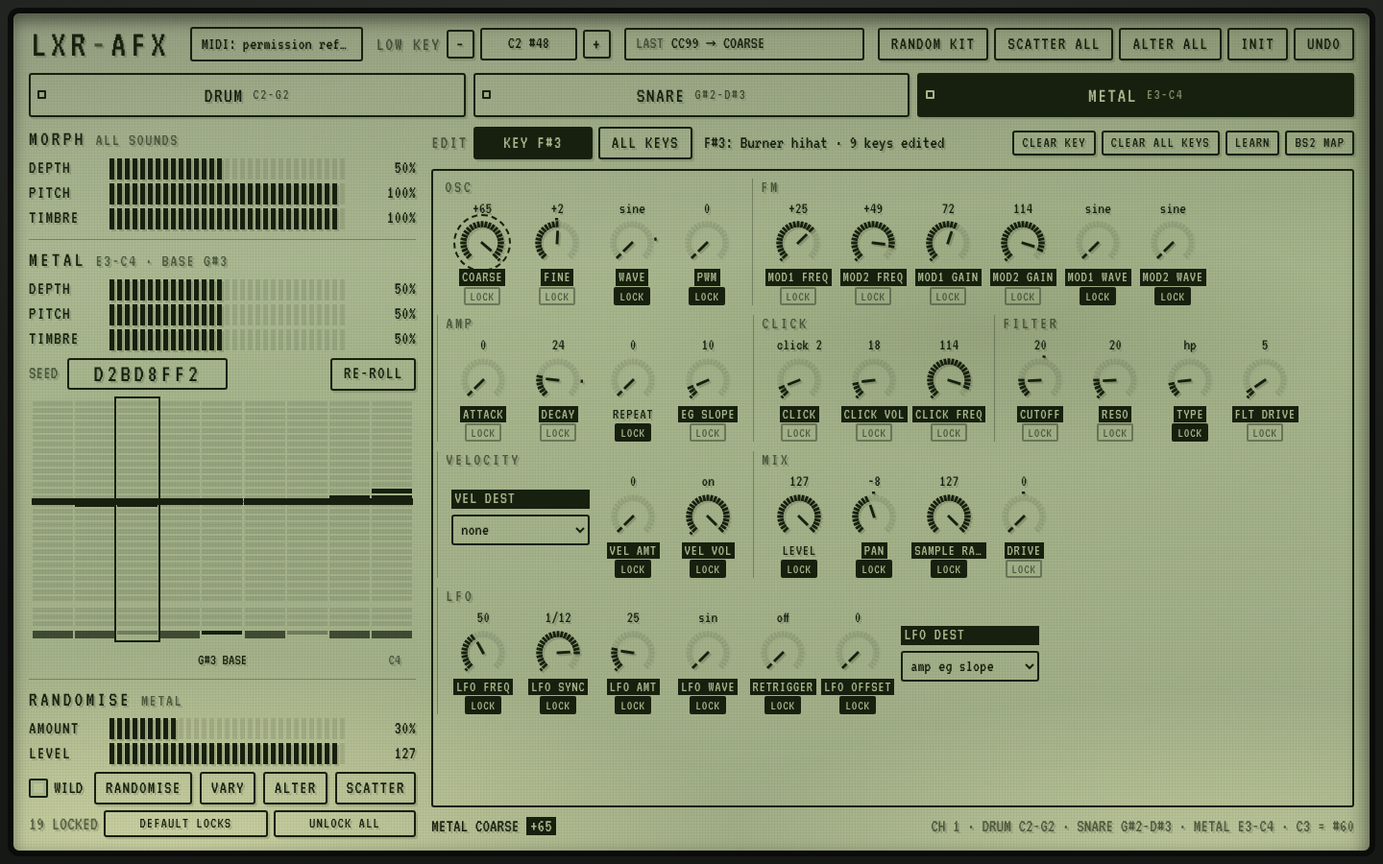
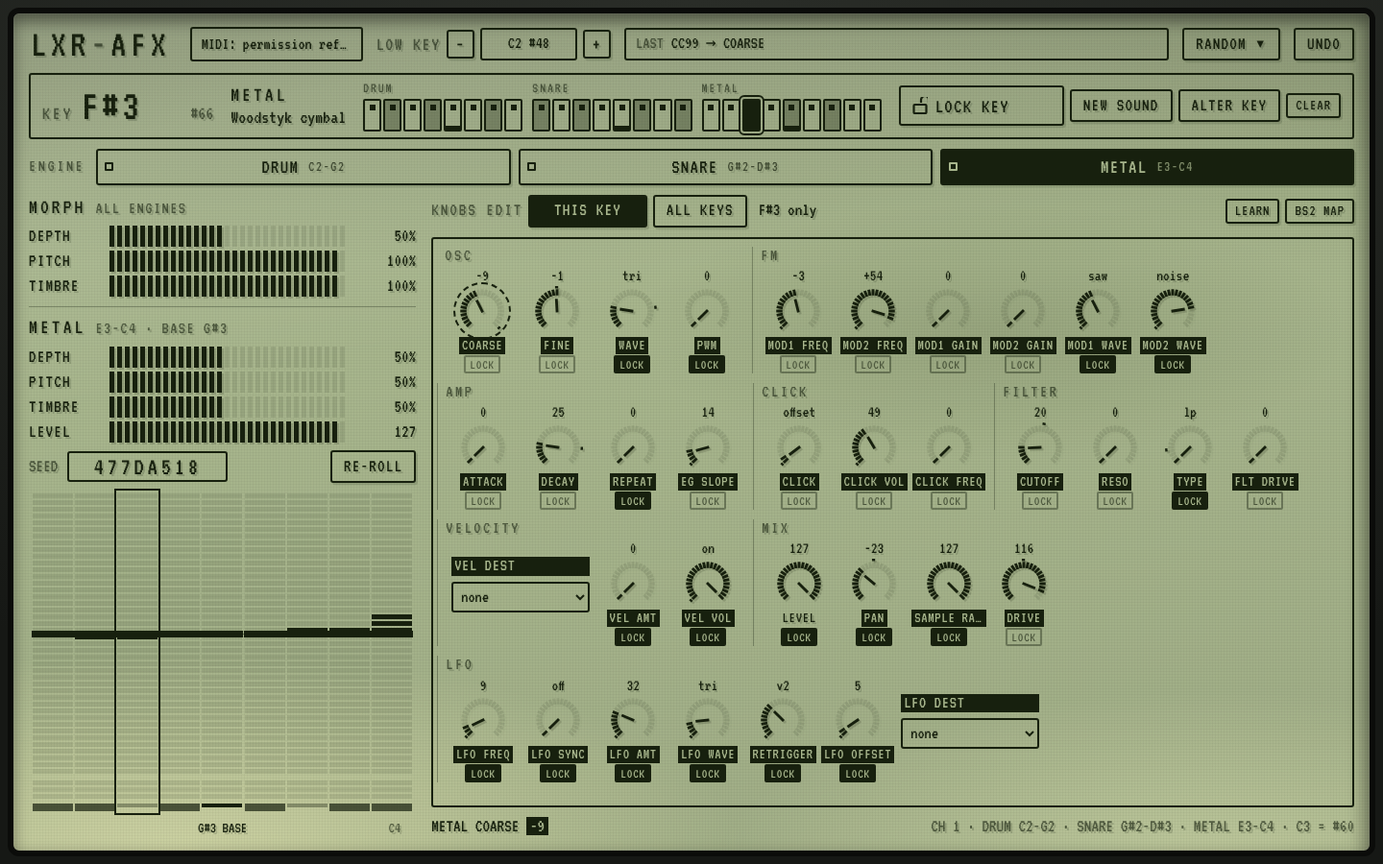
Hierarchy: key header on top (strip, lock, new sound, alter key), engine row, then knobs; randomisers in a RANDOM menu
Claude-Session: https://claude.ai/code/session_018ENZqU77miybkZNfffD9E3

Changed region(s): [[0.0, 0.0311, 1.0, 0.9956], [0.0312, 0.7156, 0.3125, 0.7778], [0.375, 0.9333, 0.4062, 0.9644]]

diff --git a/app/main.js b/app/main.js
@@ -337,7 +337,7 @@ function reroll() { S.sounds[S.sel].seed = newSeed(); lastMorph[S.sel] = null; s
 const levelPar = () => PAR['VOL' + (SOUNDS[S.sel].engineVoice + 1)];
 const randDraws = [
   hbar($('rand-bars'), 'AMOUNT', { min: 0, max: 100, get: () => S.rand.amount, set: (v) => { S.rand.amount = v; save(); }, show: P, dflt: 30 }),
-  hbar($('rand-bars'), 'LEVEL', { min: 0, max: 127, get: () => S.values[levelPar()], set: (v) => { setValue(levelPar(), v); drawFaders(); }, show: String, dflt: () => S.defaults[levelPar()], learn: { t: 'zlevel', s: 0 } }),
+  hbar($('sound-bars'), 'LEVEL', { min: 0, max: 127, get: () => S.values[levelPar()], set: (v) => { setValue(levelPar(), v); drawFaders(); }, show: String, dflt: () => S.defaults[levelPar()], learn: { t: 'zlevel', s: 0 } }),
 ];
 $('wild').checked = S.rand.wild;
 $('wild').addEventListener('change', () => { S.rand.wild = $('wild').checked; save(); });
@@ -436,12 +436,6 @@ function drawSide() {
 // ---------------------------------------------------------------------------------------------------------------
 // the editor: every parameter of the selected sound, on five pages
 // ---------------------------------------------------------------------------------------------------------------
-const pageBtns = PAGES.map((p, i) => {
-  const b = document.createElement('button'); b.className = 'btn'; b.type = 'button'; b.setAttribute('role', 'tab'); b.textContent = p.toUpperCase();
-  b.addEventListener('click', () => { S.page = i; save(); buildFaders(); });
-  $('pages').append(b);
-  return b;
-});
 let faderDraws = [];
 function buildFaders() {
   // every section of the sound at once, in page order (tone, shape, filter, mod, mix)
@@ -553,18 +547,58 @@ function drawEditKey() {
   const note = editKey[S.sel], edits = S.keyEdits[S.sel], n = Object.keys(edits).length;
   const here = editCount(edits[note]), from = edits[note] && edits[note]._kit;
   $('edit-key').setAttribute('aria-pressed', !S.editAll); $('edit-all').setAttribute('aria-pressed', S.editAll);
-  $('edit-key').textContent = 'KEY ' + noteName(note);
-  $('edit-info').textContent = S.editAll ? 'editing the base: every key follows' : (from ? `${noteName(note)}: ${from} · ` : `${here} edit${here === 1 ? '' : 's'} on ${noteName(note)} · `) + `${n} key${n === 1 ? '' : 's'} edited`;
   const locked = keyLocked(S.sel, note), nl = Object.values(edits).filter((e) => e._lock).length;
+  $('edit-key').textContent = 'THIS KEY';
+  $('edit-info').textContent = locked ? `${noteName(note)} is locked` : S.editAll ? 'the base: every key follows' : `${noteName(note)} only`;
   $('clear-key').disabled = !here || locked; $('clear-keys').disabled = n === nl;
-  $('lock-key').setAttribute('aria-pressed', locked); $('lock-key').textContent = locked ? 'LOCKED' : 'LOCK KEY';
-  if (locked) $('edit-info').textContent = `${noteName(note)} locked${from && from !== 'kept' ? ` (${from})` : ''} · ${nl} locked`;
-  $('rand-key').disabled = locked;
+  $('lock-key').setAttribute('aria-pressed', locked); $('lock-key').querySelector('span').textContent = locked ? 'LOCKED' : 'LOCK KEY';
+  $('rand-key').disabled = locked; $('alter-key').disabled = locked;
+  // the key header: the key, its engine, and what it plays
+  const what = locked ? `locked${from && from !== 'kept' ? ' · ' + from : ''}` : from ? (from === 'kept' ? 'its own sound' : from) :
+    note === SOUNDS[S.sel].zone.base ? 'the base sound' : here ? `morph + ${here} edit${here === 1 ? '' : 's'}` : 'a morph of the base';
+  $('kh-note').textContent = noteName(note); $('kh-num').textContent = '#' + note;
+  $('kh-engine').textContent = SOUNDS[S.sel].name; $('kh-info').textContent = what;
+  $('screen').classList.toggle('keylocked', locked);
+  drawStrip();
 }
 $('edit-key').addEventListener('click', () => setEditAll(false));
 $('edit-all').addEventListener('click', () => setEditAll(true));
 $('clear-key').addEventListener('click', () => { clearKey(S.sel, editKey[S.sel]); drawFaders(); drawKeymap(); drawEditKey(); detail(`${SOUNDS[S.sel].name} ${noteName(editKey[S.sel])}: back to its morph`); });
 $('lock-key').addEventListener('click', () => lockKey(S.sel, editKey[S.sel]));
+$('alter-key').addEventListener('click', () => alterKey());
+
+// ---- the key strip: every key of the layout, grouped by engine; click picks the key and plays it ----
+const stripKeys = [];
+function buildStrip() {
+  const box = $('keystrip'); box.innerHTML = ''; stripKeys.length = 0;
+  SOUNDS.forEach((s, i) => {
+    const g = document.createElement('div'); g.className = 'kgroup';
+    g.innerHTML = `<span class="kz">${s.name}</span><div class="keys"></div>`;
+    for (let note = s.zone.lo; note <= s.zone.hi; note++) {
+      const k = document.createElement('button'); k.type = 'button'; k.className = 'k' + ([1, 3, 6, 8, 10].includes(note % 12) ? ' blk' : '');
+      k.title = `${s.name} ${noteName(note)} #${note}`;
+      k.innerHTML = '<svg viewBox="0 0 16 18" aria-hidden="true"><path d="M4 8V5a4 4 0 0 1 8 0v3"/><rect x="1.5" y="8" width="13" height="9" rx="1"/></svg>';
+      k.addEventListener('click', () => { startAudio().then(() => play(i, note, 100)); });
+      g.querySelector('.keys').append(k); stripKeys.push({ k, sound: i, note });
+    }
+    box.append(g);
+  });
+}
+function drawStrip() {
+  for (const { k, sound, note } of stripKeys) {
+    const ed = S.keyEdits[sound][note];
+    k.classList.toggle('sel', sound === S.sel && note === editKey[sound]);
+    k.classList.toggle('locked', !!ed?._lock);
+    k.classList.toggle('own', !!ed && !ed._lock);
+    k.classList.toggle('base', note === SOUNDS[sound].zone.base);
+  }
+}
+
+// ---- the RANDOM menu ----
+function openMenu(open) { $('menu-panel').hidden = !open; $('menu-btn').setAttribute('aria-expanded', open); }
+$('menu-btn').addEventListener('click', () => openMenu($('menu-panel').hidden));
+document.addEventListener('pointerdown', (e) => { if (!$('menu-panel').hidden && !e.target.closest('#menu')) openMenu(false); });
+document.addEventListener('keydown', (e) => { if (e.key === 'Escape') openMenu(false); });
 $('clear-keys').addEventListener('click', () => { const e = S.keyEdits[S.sel]; for (const k in e) if (!e[k]._lock) delete e[k]; save(); drawFaders(); drawKeymap(); drawEditKey(); detail(`${SOUNDS[S.sel].name}: every key back to its morph`); });
 
 // ---------------------------------------------------------------------------------------------------------------
@@ -623,6 +657,22 @@ function pickVoice(sound, vary) {
 }
 const alterVoice = (v) => { delete homes[v]; randomiseVoice(v, 0.1, false); delete homes[v]; };
 // ALTER: the sound's base and every key with its own sound
+// ALTER KEY: this key's sound nudged a little (10%) around what it plays now, kept as its own edits
+function alterOne(sound, note, depth) {
+  const sc = VOICE_SCHEMAS[SOUNDS[sound].engineVoice], now = keyPatch(sound, note).vals, ed = S.keyEdits[sound][note] || {};
+  for (const e of sc) {
+    if (S.locks.has(e.par) || e.display.type === 'target') continue;
+    const v = vary(e, now.get(e.par), depth, false);
+    if (v !== now.get(e.par) || ed[e.par] !== undefined) ed[e.par] = v;
+  }
+  if (editCount(ed)) S.keyEdits[sound][note] = ed;
+}
+function alterKey() {
+  const sound = S.sel, note = editKey[sound];
+  if (keyLocked(sound, note)) { lockedMsg(); return; }
+  randChange(() => { alterOne(sound, note, 0.1); if (S.editAll) setEditAll(false); }, `${SOUNDS[sound].name} ${noteName(note)} altered <em>10%</em> (UNDO takes it back)`)
+    .then(() => { drawKeymap(); play(sound, note, 100); });
+}
 const alterSound = (i) => { alterVoice(SOUNDS[i].engineVoice); alterKeys(i, 0.1); };
 async function randChange(fn, what) {
   await startAudio();
@@ -721,6 +771,7 @@ document.addEventListener('keydown', (e) => {
   if (e.key >= '1' && e.key <= String(SOUNDS.length)) select(Number(e.key) - 1);
   else if (e.key === 'r' || e.key === 'R') reroll();
   else if (e.key === 'k' || e.key === 'K') randKey();
+  else if (e.key === 'a' || e.key === 'A') alterKey();
   else if (e.key === 'l' || e.key === 'L') lockKey(S.sel, editKey[S.sel]);
 });
 
@@ -732,6 +783,7 @@ $('start-btn').addEventListener('click', async () => {
   await startAudio();
   startMidi();
 });
+buildStrip();
 select(clamp(S.sel, 0, SOUNDS.length - 1));
 // the layout: three zones up from the lowest key, moved by octaves with LOW KEY (the keys' edits move with them)
 function drawZones() {
@@ -747,7 +799,7 @@ function moveZones(by) {
   S.zoneStart = to; setZoneStart(to);
   S.keyEdits = S.keyEdits.map((k) => Object.fromEntries(Object.entries(k).map(([n, e]) => [Number(n) + by, e])));
   SOUNDS.forEach((s, i) => { editKey[i] += by; lastMorph[i] = null; });
-  save(); drawZones(); drawSide(); drawFaders(); drawEditKey();
+  save(); buildStrip(); drawZones(); drawSide(); drawFaders(); drawEditKey();
   detail(`lowest key <em>${noteName(to)} #${to}</em>`);
 }
 $('low-down').addEventListener('click', () => moveZones(-12));
@@ -761,7 +813,7 @@ if (new URLSearchParams(location.search).has('nostart')) $('start').hidden = tru
 // fit the screen to small windows (a MacBook Air's browser with its toolbar and the dock): below 1264x784 inside the
 // bezel the whole screen is laid out at that size and scaled down, so every knob stays visible and nothing scrolls
 // ---------------------------------------------------------------------------------------------------------------
-const FIT_W = 1264, FIT_H = 784;
+const FIT_W = 1264, FIT_H = 850;
 function fitScreen() {
   const sc = $('screen'), vw = innerWidth - 16, vh = innerHeight - 16, s = Math.min(1, vw / FIT_W, vh / FIT_H);
   if (s < 1) Object.assign(sc.style, { width: `${vw / s}px`, height: `${vh / s}px`, maxWidth: 'none', margin: '0', transform: `scale(${s})`, transformOrigin: '0 0' });

diff --git a/index.html b/index.html
@@ -17,65 +17,84 @@
     <div class="lcdbox midi" id="midi-status" title="Web MIDI input">MIDI: off</div>
     <div class="lowkey" role="group" aria-label="Lowest key of the layout"><span class="dim">LOW KEY</span><button class="btn sm" id="low-down" title="Move the whole layout down an octave">−</button><b class="lcdbox" id="low-key"></b><button class="btn sm" id="low-up" title="Move the whole layout up an octave">+</button></div>
     <div class="lcdbox last" id="last" aria-live="polite"><span class="dim">LAST</span> <b id="last-text">nothing played yet</b></div>
-    <div class="kitrand" role="group" aria-label="Kit randomiser">
-      <button class="btn" id="kit-rand" title="All three sounds: variants from the built-in kits">RANDOM KIT</button>
-      <button class="btn" id="kit-scatter" title="Every key of all three zones: a sound of its type from the built-in kits">SCATTER ALL</button>
-      <button class="btn" id="kit-alter" title="Nudge all three sounds a little (10%), and each key with its own sound">ALTER ALL</button>
-      <button class="btn" id="kit-init" title="Back to the firmware's init kit">INIT</button>
-      <button class="btn" id="undo" disabled title="Take back the last randomise">UNDO</button>
+    <div class="menu" id="menu">
+      <button class="btn" id="menu-btn" aria-haspopup="true" aria-expanded="false" title="Randomisers for a whole engine or all three">RANDOM ▾</button>
+      <div class="menupanel" id="menu-panel" hidden>
+        <h3>THIS ENGINE <span class="dim" id="rand-name">DRUM</span></h3>
+        <div class="bars" id="rand-bars"></div>
+        <div class="randrow">
+          <label class="chk"><input type="checkbox" id="wild"><i></i>WILD</label>
+          <button class="btn" id="rand" title="A variant of this engine's sound from the built-in kits, varied by the amount (locked controls stay)">RANDOMISE</button>
+          <button class="btn" id="vary" title="Vary this engine's sound around its home by the amount (unlocked controls only)">VARY</button>
+        </div>
+        <div class="randrow">
+          <button class="btn" id="alter" title="Nudge this engine's sound a little (10%), and each key with its own sound">ALTER</button>
+          <button class="btn" id="scatter" title="Every key of this zone: a different sound of its type from the built-in kits (locked keys stay)">SCATTER</button>
+          <button class="btn" id="clear-keys" title="Every key of this zone back to its plain morph (locked keys stay)">CLEAR KEYS</button>
+        </div>
+        <h3>ALL THREE ENGINES</h3>
+        <div class="randrow">
+          <button class="btn" id="kit-rand" title="All three sounds: variants from the built-in kits">RANDOM KIT</button>
+          <button class="btn" id="kit-scatter" title="Every key of all three zones: a sound of its type from the built-in kits">SCATTER ALL</button>
+        </div>
+        <div class="randrow">
+          <button class="btn" id="kit-alter" title="Nudge all three sounds a little (10%), and each key with its own sound">ALTER ALL</button>
+          <button class="btn" id="kit-init" title="Back to the firmware's init kit">INIT</button>
+        </div>
+        <h3>CONTROL LOCKS <span class="dim" id="lock-count">0 LOCKED</span></h3>
+        <div class="randrow">
+          <button class="btn sm" id="lock-default">DEFAULT LOCKS</button><button class="btn sm" id="lock-none">UNLOCK ALL</button>
+        </div>
+      </div>
     </div>
+    <button class="btn" id="undo" disabled title="Take back the last randomise">UNDO</button>
   </header>
 
-  <nav class="sounds" id="sounds" role="tablist" aria-label="Sounds"></nav>
+  <section class="keyhead" id="keyhead" aria-label="The key">
+    <div class="keyname"><span class="dim">KEY</span><b id="kh-note">C3</b><span class="dim" id="kh-num">#60</span></div>
+    <div class="keyinfo"><b id="kh-engine">DRUM</b><span id="kh-info"></span></div>
+    <div class="keystrip" id="keystrip" title="Click a key to pick it (and hear it)"></div>
+    <div class="keyacts">
+      <button class="btn keylock" id="lock-key" title="Freeze this key: nothing changes its sound until it's unlocked (L)"><svg viewBox="0 0 16 18" aria-hidden="true"><path class="shackle" d="M4 8V5a4 4 0 0 1 8 0v3"/><rect x="1.5" y="8" width="13" height="9" rx="1"/></svg><span>LOCK KEY</span></button>
+      <button class="btn" id="rand-key" title="A new kit sound on this key only (K; UNDO takes it back; LEARN can put it on a button)">NEW SOUND</button>
+      <button class="btn" id="alter-key" title="Nudge this key's sound a little (A; UNDO takes it back)">ALTER KEY</button>
+      <button class="btn sm" id="clear-key" title="This key back to its plain morph">CLEAR</button>
+    </div>
+  </section>
+
+  <nav class="sounds" id="sounds" role="tablist" aria-label="Engines"><span class="dim tag">ENGINE</span></nav>
 
   <div class="body">
     <aside class="side">
       <section class="card">
-        <h2>MORPH <span class="dim">ALL SOUNDS</span></h2>
+        <h2>MORPH <span class="dim">ALL ENGINES</span></h2>
         <div class="bars" id="global-bars"></div>
       </section>
       <section class="card grow">
-        <h2><span id="side-name">DRUM 1</span> <span class="dim" id="side-ch">CH 1</span></h2>
+        <h2><span id="side-name">DRUM</span> <span class="dim" id="side-ch">CH 1</span></h2>
         <div class="bars" id="sound-bars"></div>
         <div class="seedrow">
           <span class="dim">SEED</span><b class="seed" id="seed">0000</b>
           <button class="btn" id="reroll" title="A new seed: every key gets a new variant (R)">RE-ROLL</button>
         </div>
         <div class="keymap">
-          <canvas id="keymap" aria-label="Key map: each key's pitch and timbre morph, C1 to C5"></canvas>
+          <canvas id="keymap" aria-label="Key map: each key's pitch and timbre morph"></canvas>
           <div class="keylabels" id="keylabels"></div>
         </div>
-      </section>
-      <section class="card">
-        <h2>RANDOMISE <span class="dim" id="rand-name">DRUM 1</span></h2>
-        <div class="bars" id="rand-bars"></div>
-        <div class="randrow">
-          <label class="chk"><input type="checkbox" id="wild"><i></i>WILD</label>
-          <button class="btn" id="rand" title="A variant of this sound from the built-in kits: a matching voice from a random kit, varied by the amount (locked controls stay)">RANDOMISE</button>
-          <button class="btn" id="vary" title="Vary this sound around its home by the amount (unlocked controls only)">VARY</button>
-          <button class="btn" id="alter" title="Nudge this sound a little (10%), and each key with its own sound (scattered or edited)">ALTER</button>
-          <button class="btn" id="scatter" title="Every key of this zone: a different sound of its type from the built-in kits, played as it is">SCATTER</button>
-        </div>
-        <div class="randrow small"><span class="dim" id="lock-count">0 LOCKED</span>
-          <button class="btn sm" id="lock-default">DEFAULT LOCKS</button><button class="btn sm" id="lock-none">UNLOCK ALL</button></div>
       </section>
     </aside>
 
     <section class="editor">
-      <div class="pages" id="pages" role="tablist" aria-label="Editor pages" hidden></div>
       <div class="editbar">
-        <span class="dim">EDIT</span>
-        <button class="btn" id="edit-key" title="Edits change only the last key pressed (or the key picked on the key map)">KEY C3</button>
-        <button class="btn" id="edit-all" title="Edits change the base sound: every key's morph follows">ALL KEYS</button>
-        <button class="btn" id="rand-key" title="A new kit sound on this key only, every other key stays (K; undo takes it back; LEARN can put it on a button)">NEW SOUND</button>
-        <button class="btn" id="lock-key" title="Freeze this key: nothing changes its sound (randomisers, scatter, morph, re-roll, base edits) until it's unlocked (L)">LOCK KEY</button>
+        <span class="dim">KNOBS EDIT</span>
+        <button class="btn" id="edit-key" title="Edits change only this key">THIS KEY</button>
+        <button class="btn" id="edit-all" title="Edits change the engine's base sound: every key's morph follows">ALL KEYS</button>
         <span id="edit-info" class="info"></span>
-        <button class="btn sm" id="clear-key" title="This key back to its plain morph">CLEAR KEY</button>
-        <button class="btn sm" id="clear-keys" title="Every key of this sound back to its plain morph">CLEAR ALL KEYS</button>
         <button class="btn sm" id="learn" title="Map a knob: press, click a control on screen, turn the knob">LEARN</button>
         <button class="btn sm" id="cc-reset" title="Knobs back to the Bass Station 2 map">BS2 MAP</button>
       </div>
       <div class="faders" id="faders"></div>
+      <div class="lockveil" id="lockveil"><b>KEY LOCKED</b><span>nothing changes this key · LOCK KEY (L) unlocks it</span></div>
       <footer class="status"><span id="detail">Play a key, then edit: the change stays on that key. ALL KEYS edits the base, and every key follows.</span>
         <span class="dim" id="zones"></span></footer>
     </section>

diff --git a/css/lcd.css b/css/lcd.css
@@ -16,7 +16,7 @@ button { font: inherit; color: inherit; }
 
 .screen {
   position: relative; height: calc(100vh - 16px); max-width: 1600px; margin: 0 auto;
-  display: grid; grid-template-rows: auto auto 1fr; gap: 10px; padding: 12px 16px 14px;
+  display: grid; grid-template-rows: auto auto auto 1fr; gap: 10px; padding: 12px 16px 14px;
   border: 6px solid #0b0c0a; border-radius: 12px; user-select: none; -webkit-user-select: none;
   text-shadow: var(--shadow); font-size: 20px; line-height: 1.1;
   background-color: var(--panel);
@@ -64,8 +64,9 @@ h2 .dim { font-size: 18px; letter-spacing: .08em; }
 .kitrand > .dim { margin-right: 2px; letter-spacing: .1em; }
 
 /* ---- the seven sounds ---- */
-.sounds { display: grid; grid-template-columns: repeat(3, 1fr); gap: 8px; }
-.snd { position: relative; display: flex; align-items: center; justify-content: center; gap: 10px; min-height: 46px; font-size: 22px; padding: 2px 8px; }
+.sounds { display: grid; grid-template-columns: auto repeat(3, 1fr); gap: 8px; align-items: center; }
+.sounds .tag { letter-spacing: .14em; font-size: 18px; padding-right: 4px; }
+.snd { position: relative; display: flex; align-items: center; justify-content: center; gap: 10px; min-height: 38px; font-size: 21px; padding: 2px 8px; }
 .snd .ch { font-size: 16px; opacity: .7; }
 .snd i { position: absolute; left: 7px; top: 50%; width: 9px; height: 9px; margin-top: -5px; border: 2px solid currentColor; border-radius: 1px; }
 .snd i.on { background: currentColor; }
@@ -196,3 +197,67 @@ body.learning [data-learn] { outline: 2px dashed var(--ink); outline-offset: 2px
 .sect .vsel label { white-space: nowrap; }
 @media (max-width: 1340px) { .faders { --kw: 66px; --ks: 44px; } .vf .lab { font-size: 15px; } .vf output { font-size: 16px; } }
 @media (max-height: 820px) { .faders { row-gap: 6px; } }
+
+/* ---- the RANDOM menu: everything that randomises a whole engine or all three ---- */
+.menu { position: relative; }
+.menupanel { position: absolute; right: 0; top: calc(100% + 6px); z-index: 20; width: 430px; padding: 12px 14px 14px;
+  background: var(--panel); border: 2px solid var(--ink); border-radius: 3px; box-shadow: 6px 7px 0 rgba(11, 12, 10, .35); }
+.menupanel[hidden] { display: none; }
+.menupanel h3 { margin: 10px 0 6px; font-size: 18px; font-weight: 400; letter-spacing: .14em; border-top: var(--rule); padding-top: 8px; }
+.menupanel h3:first-child { margin-top: 0; border-top: 0; padding-top: 0; }
+.menupanel .randrow { margin-top: 6px; }
+
+/* ---- the key: the top of the hierarchy (key, then its engine, then its synth settings) ---- */
+.keyhead { display: grid; grid-template-columns: auto auto 1fr auto; align-items: center; gap: 18px; padding: 6px 12px;
+  border: 2px solid var(--ink); border-radius: 3px; min-width: 0; }
+.keyname { display: flex; align-items: baseline; gap: 8px; white-space: nowrap; }
+.keyname > .dim:first-child { letter-spacing: .14em; }
+.keyname b { font-weight: 400; font-size: 46px; line-height: 1; letter-spacing: .06em; min-width: 2.3em; }
+.keyinfo { display: flex; flex-direction: column; min-width: 0; max-width: 15em; line-height: 1.15; }
+.keyinfo b { font-weight: 400; font-size: 22px; letter-spacing: .14em; }
+.keyinfo span { white-space: nowrap; overflow: hidden; text-overflow: ellipsis; }
+.keyacts { display: flex; gap: 6px; align-items: center; }
+.keylock { display: flex; align-items: center; gap: 8px; min-width: 8.2em; min-height: 42px; font-size: 21px; }
+.keylock svg { width: 16px; height: 18px; fill: none; stroke: currentColor; stroke-width: 2.2; }
+.keylock[aria-pressed="false"] .shackle { transform: translate(5px, -2px); }
+.keylock[aria-pressed="true"] svg rect { fill: currentColor; }
+/* the strip: every key of the layout, grouped by engine */
+.keystrip { display: flex; gap: 10px; min-width: 0; justify-content: center; }
+.kgroup { display: flex; flex-direction: column; gap: 2px; min-width: 0; }
+.kgroup .kz { font-size: 15px; letter-spacing: .12em; color: var(--muted); }
+.kgroup .keys { display: flex; gap: 2px; }
+.k { position: relative; width: 22px; height: 34px; padding: 0; border: 2px solid var(--ink); border-radius: 2px; background: transparent; cursor: pointer; color: var(--ink); }
+.k.blk { background: rgba(23, 32, 14, .3); }
+.k.base { border-bottom-width: 6px; }
+.k.own::after { content: ""; position: absolute; left: 50%; top: 4px; width: 6px; height: 6px; margin-left: -3px; background: var(--ink); }
+.k svg { display: none; position: absolute; left: 50%; top: 50%; width: 12px; height: 14px; margin: -8px 0 0 -6px; fill: currentColor; stroke: currentColor; stroke-width: 2.4; }
+.k svg path { fill: none; }
+.k.locked svg { display: block; }
+.k.sel { background: var(--ink); color: var(--panel); outline: 2px solid var(--ink); outline-offset: 2px; }
+.k:hover { background: var(--tint); }
+.k.sel:hover { background: var(--ink); }
+/* a locked key: the key's header inverts, and the knobs are veiled */
+.keylocked .keyhead { background: var(--ink); color: var(--panel); text-shadow: none; }
+.keylocked .keyhead .dim, .keylocked .keyhead .kz { color: var(--panel); opacity: .7; }
+.keylocked .keyhead .btn { border-color: var(--panel); color: var(--panel); }
+.keylocked .keyhead .btn:disabled { opacity: .35; }
+.keylocked .keyhead .keylock { background: var(--panel); color: var(--ink); }
+.keylocked .keyhead .k { border-color: var(--panel); color: var(--panel); }
+.keylocked .keyhead .k.blk { background: rgba(167, 181, 140, .3); }
+.keylocked .keyhead .k.own::after { background: var(--panel); }
+.keylocked .keyhead .k.sel { background: var(--panel); color: var(--ink); outline-color: var(--panel); }
+.editor { position: relative; }
+.faders, .lockveil { grid-area: 2 / 1; }
+.lockveil { display: none; z-index: 2; flex-direction: column; align-items: center; justify-content: center; gap: 6px; pointer-events: none;
+  background: repeating-linear-gradient(135deg, rgba(23, 32, 14, .1) 0 3px, transparent 3px 11px); }
+.lockveil b { font-weight: 400; font-size: 34px; letter-spacing: .2em; background: var(--ink); color: var(--panel); padding: 2px 16px; text-shadow: none; }
+.lockveil span { background: var(--panel); padding: 0 8px; }
+.keylocked .lockveil { display: flex; }
+.keylocked .faders { opacity: .45; pointer-events: none; }
+@media (max-width: 1340px) {
+  .keyhead { gap: 12px; padding: 4px 10px; }
+  .keyname b { font-size: 40px; }
+  .k { width: 18px; height: 30px; }
+  .keystrip { gap: 6px; }
+  .keyinfo { max-width: 11em; }
+}

diff --git a/README.md b/README.md
@@ -13,6 +13,10 @@ An AFX-mode drum instrument in the browser: three sounds on one MIDI channel, ev
   timbre, more the further it is from the base (each end of a zone is the full amount). Each key's variant is fixed by
   the sound's seed; **re-roll** for a new set. Depth, pitch and timbre sliders for all sounds and per sound; depth 0 plays
   the base sound on every key.
+- **Layout, top down: the key, then its engine, then its synth settings.** The key header shows the key you last played
+  (or clicked on its strip of all 25 keys), its engine and what it plays, with **LOCK KEY** (L), **NEW SOUND** (K),
+  **ALTER KEY** (A) and **CLEAR**. A locked key turns the header black and veils the knobs. Everything that randomises a
+  whole engine or all three (randomise, vary, alter, scatter, random kit, init, control locks) is in the **RANDOM** menu.
 - **Editor**: every parameter of the sound on one screen, as knobs (drag up/down, scroll or arrow keys; double-click
   resets; a notch outside the ring marks the base). By default an edit changes only the last key
   pressed (or the key picked on the key map), kept on top of that key's morph; **ALL KEYS** edits the base instead, and
